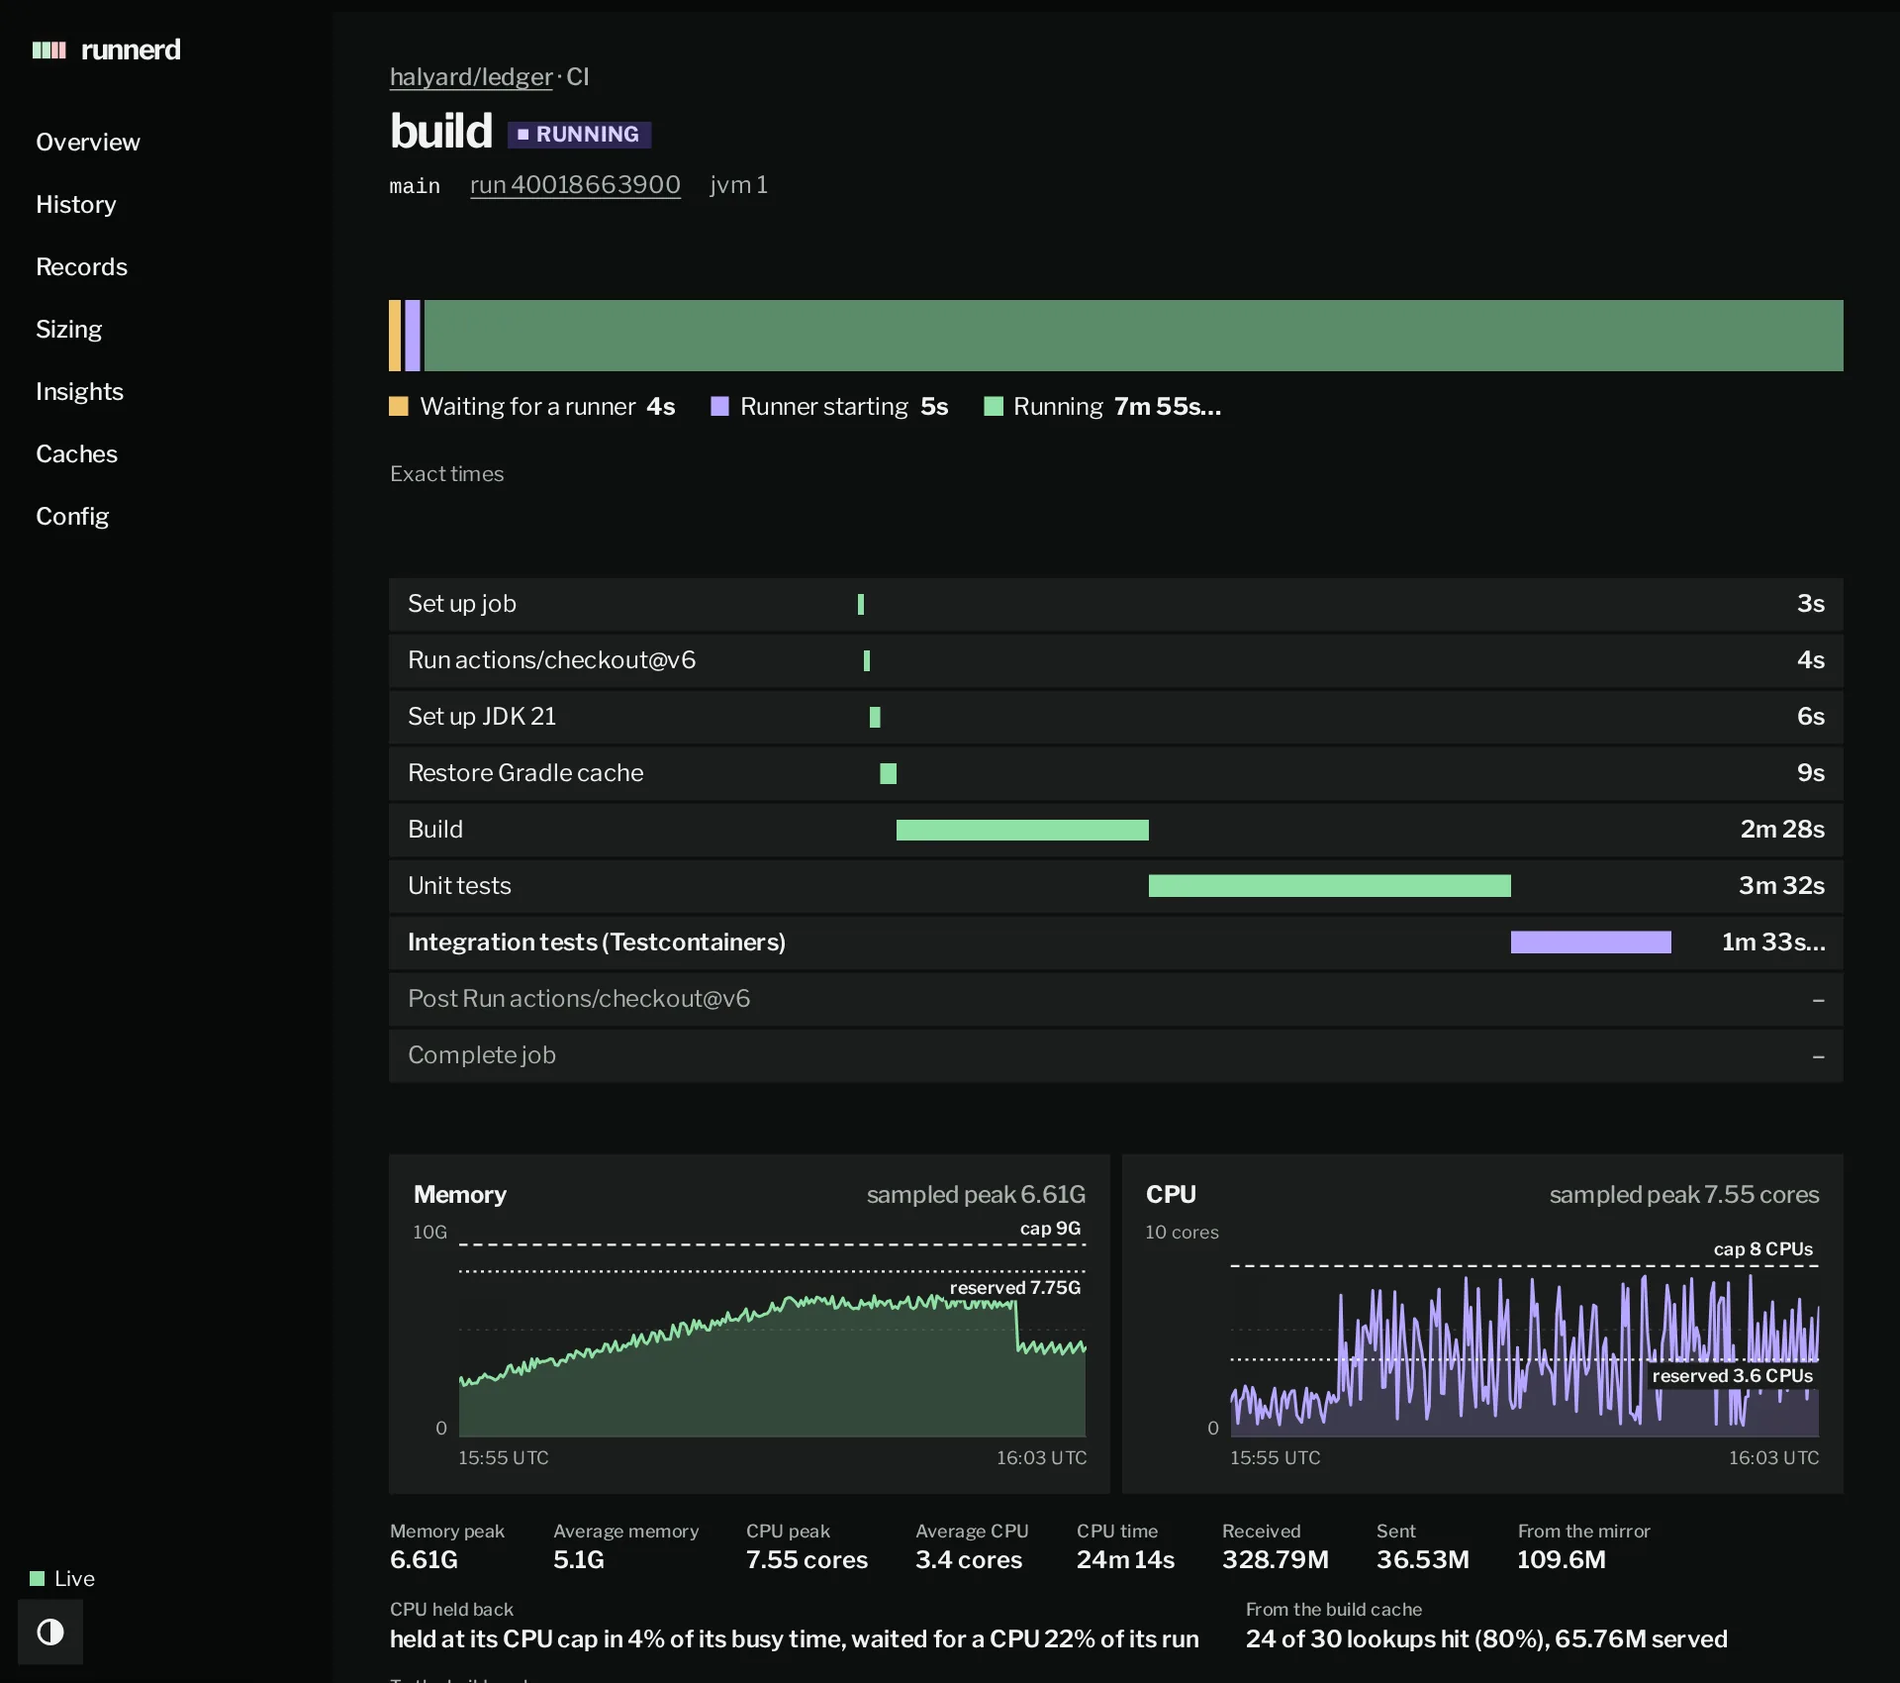
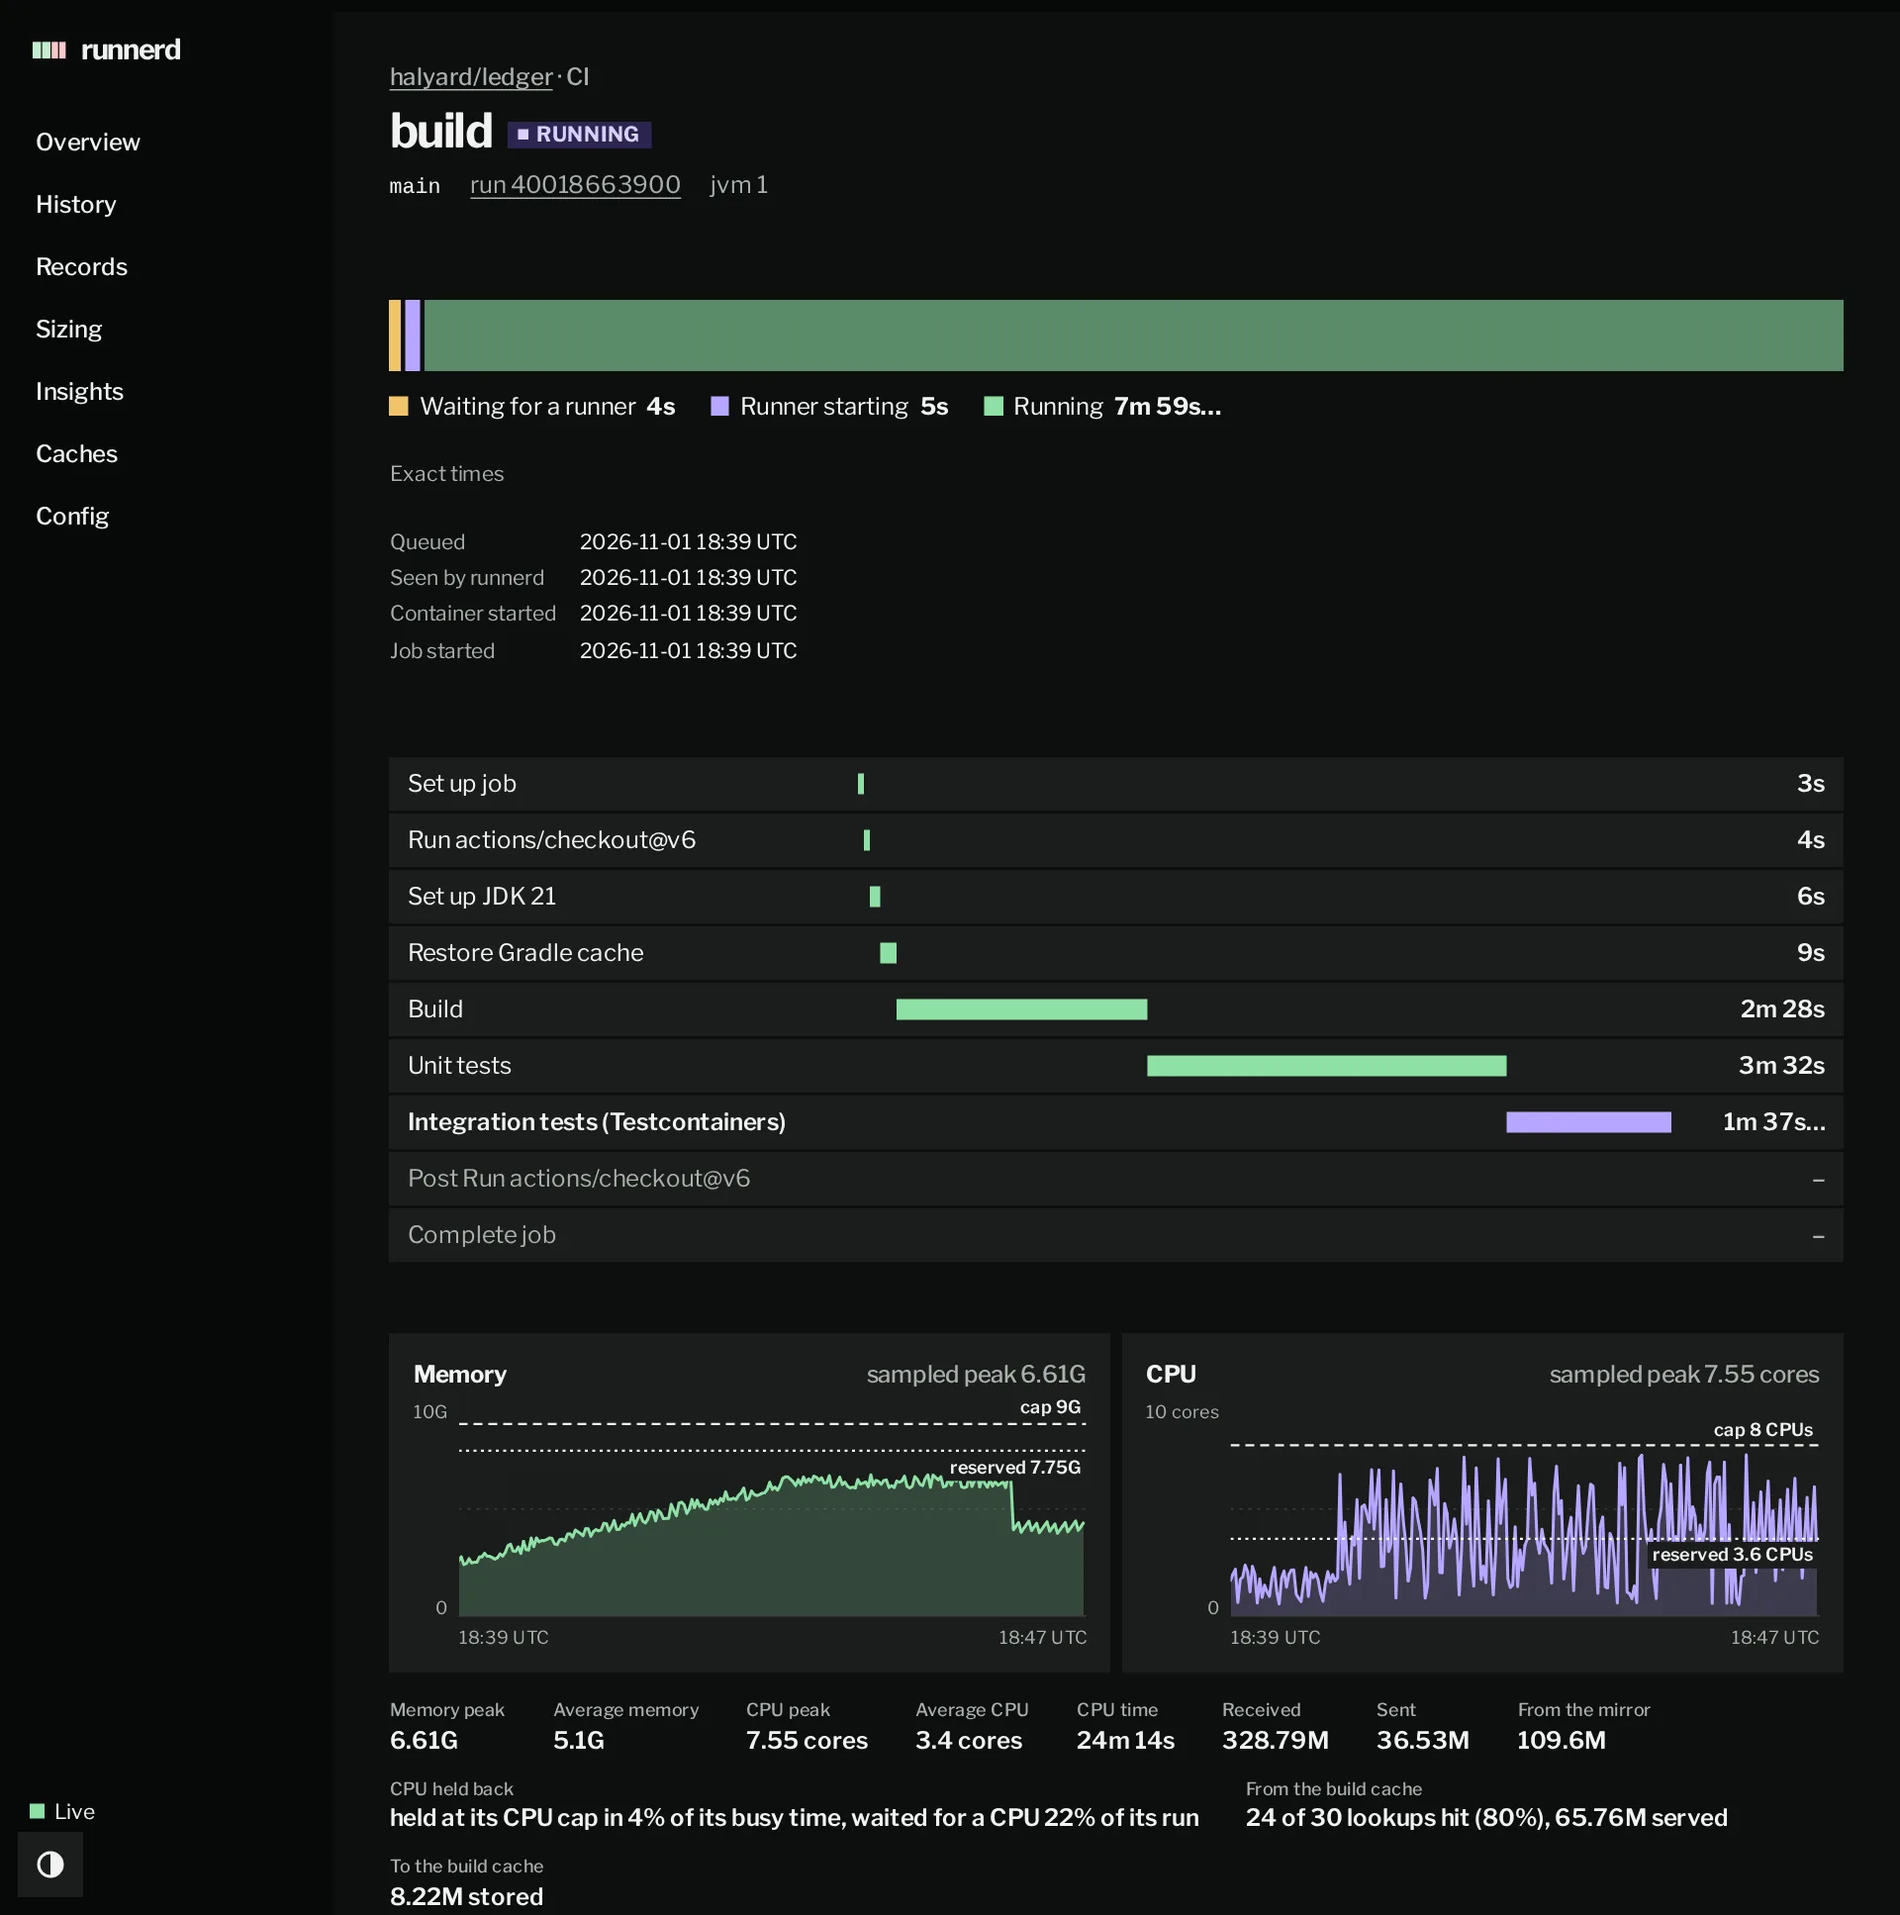
docs: the job screenshots show the exact times, Seen by runnerd among them

diff --git a/crates/web/examples/demo/fake.rs b/crates/web/examples/demo/fake.rs
@@ -271,7 +271,8 @@ fn job(spec: &Spec<'_>, now: u64, noise: &mut Noise) -> (Job, Vec<Sample>, Vec<S
             finished_at: finished,
             cleaned_at: finished.map(|finished| finished + 4),
             unseen: 0,
-            seen_at: None,
+            // Runnerd listed it on a poll between its queueing and its runner's start.
+            seen_at: Some(spec.queued_at + container.saturating_sub(spec.queued_at) / 2),
         },
         metrics: JobMetrics {
             cpu_time: Some(cpu_time),
